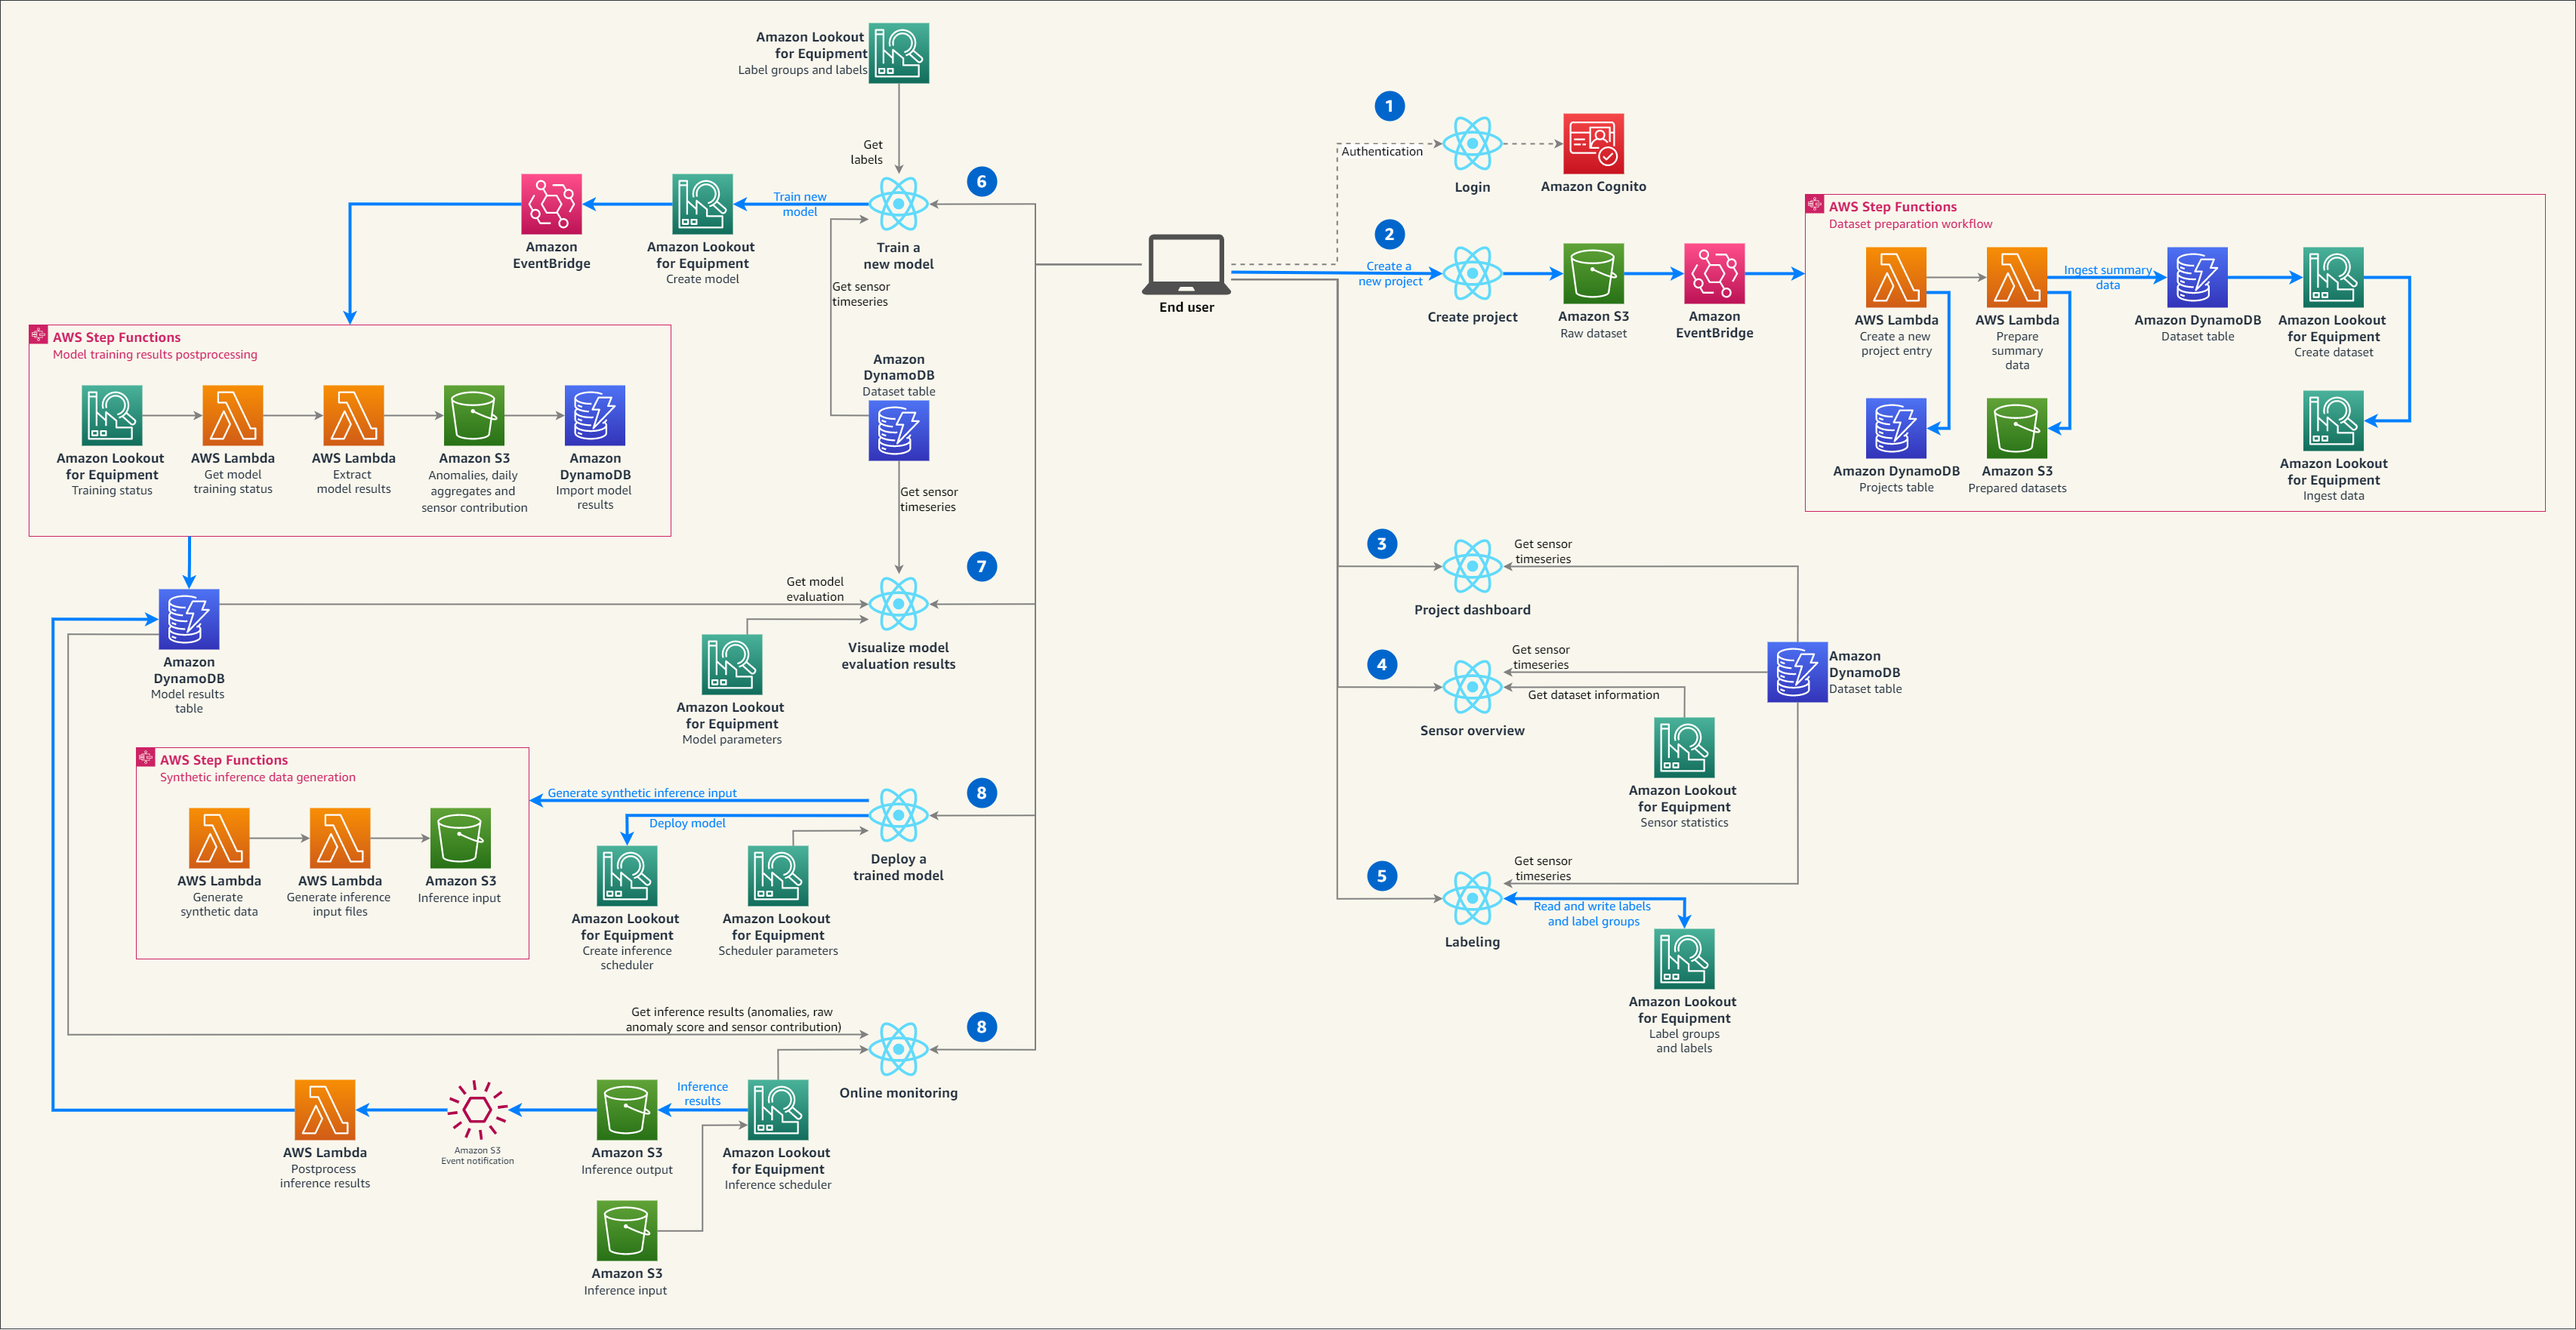
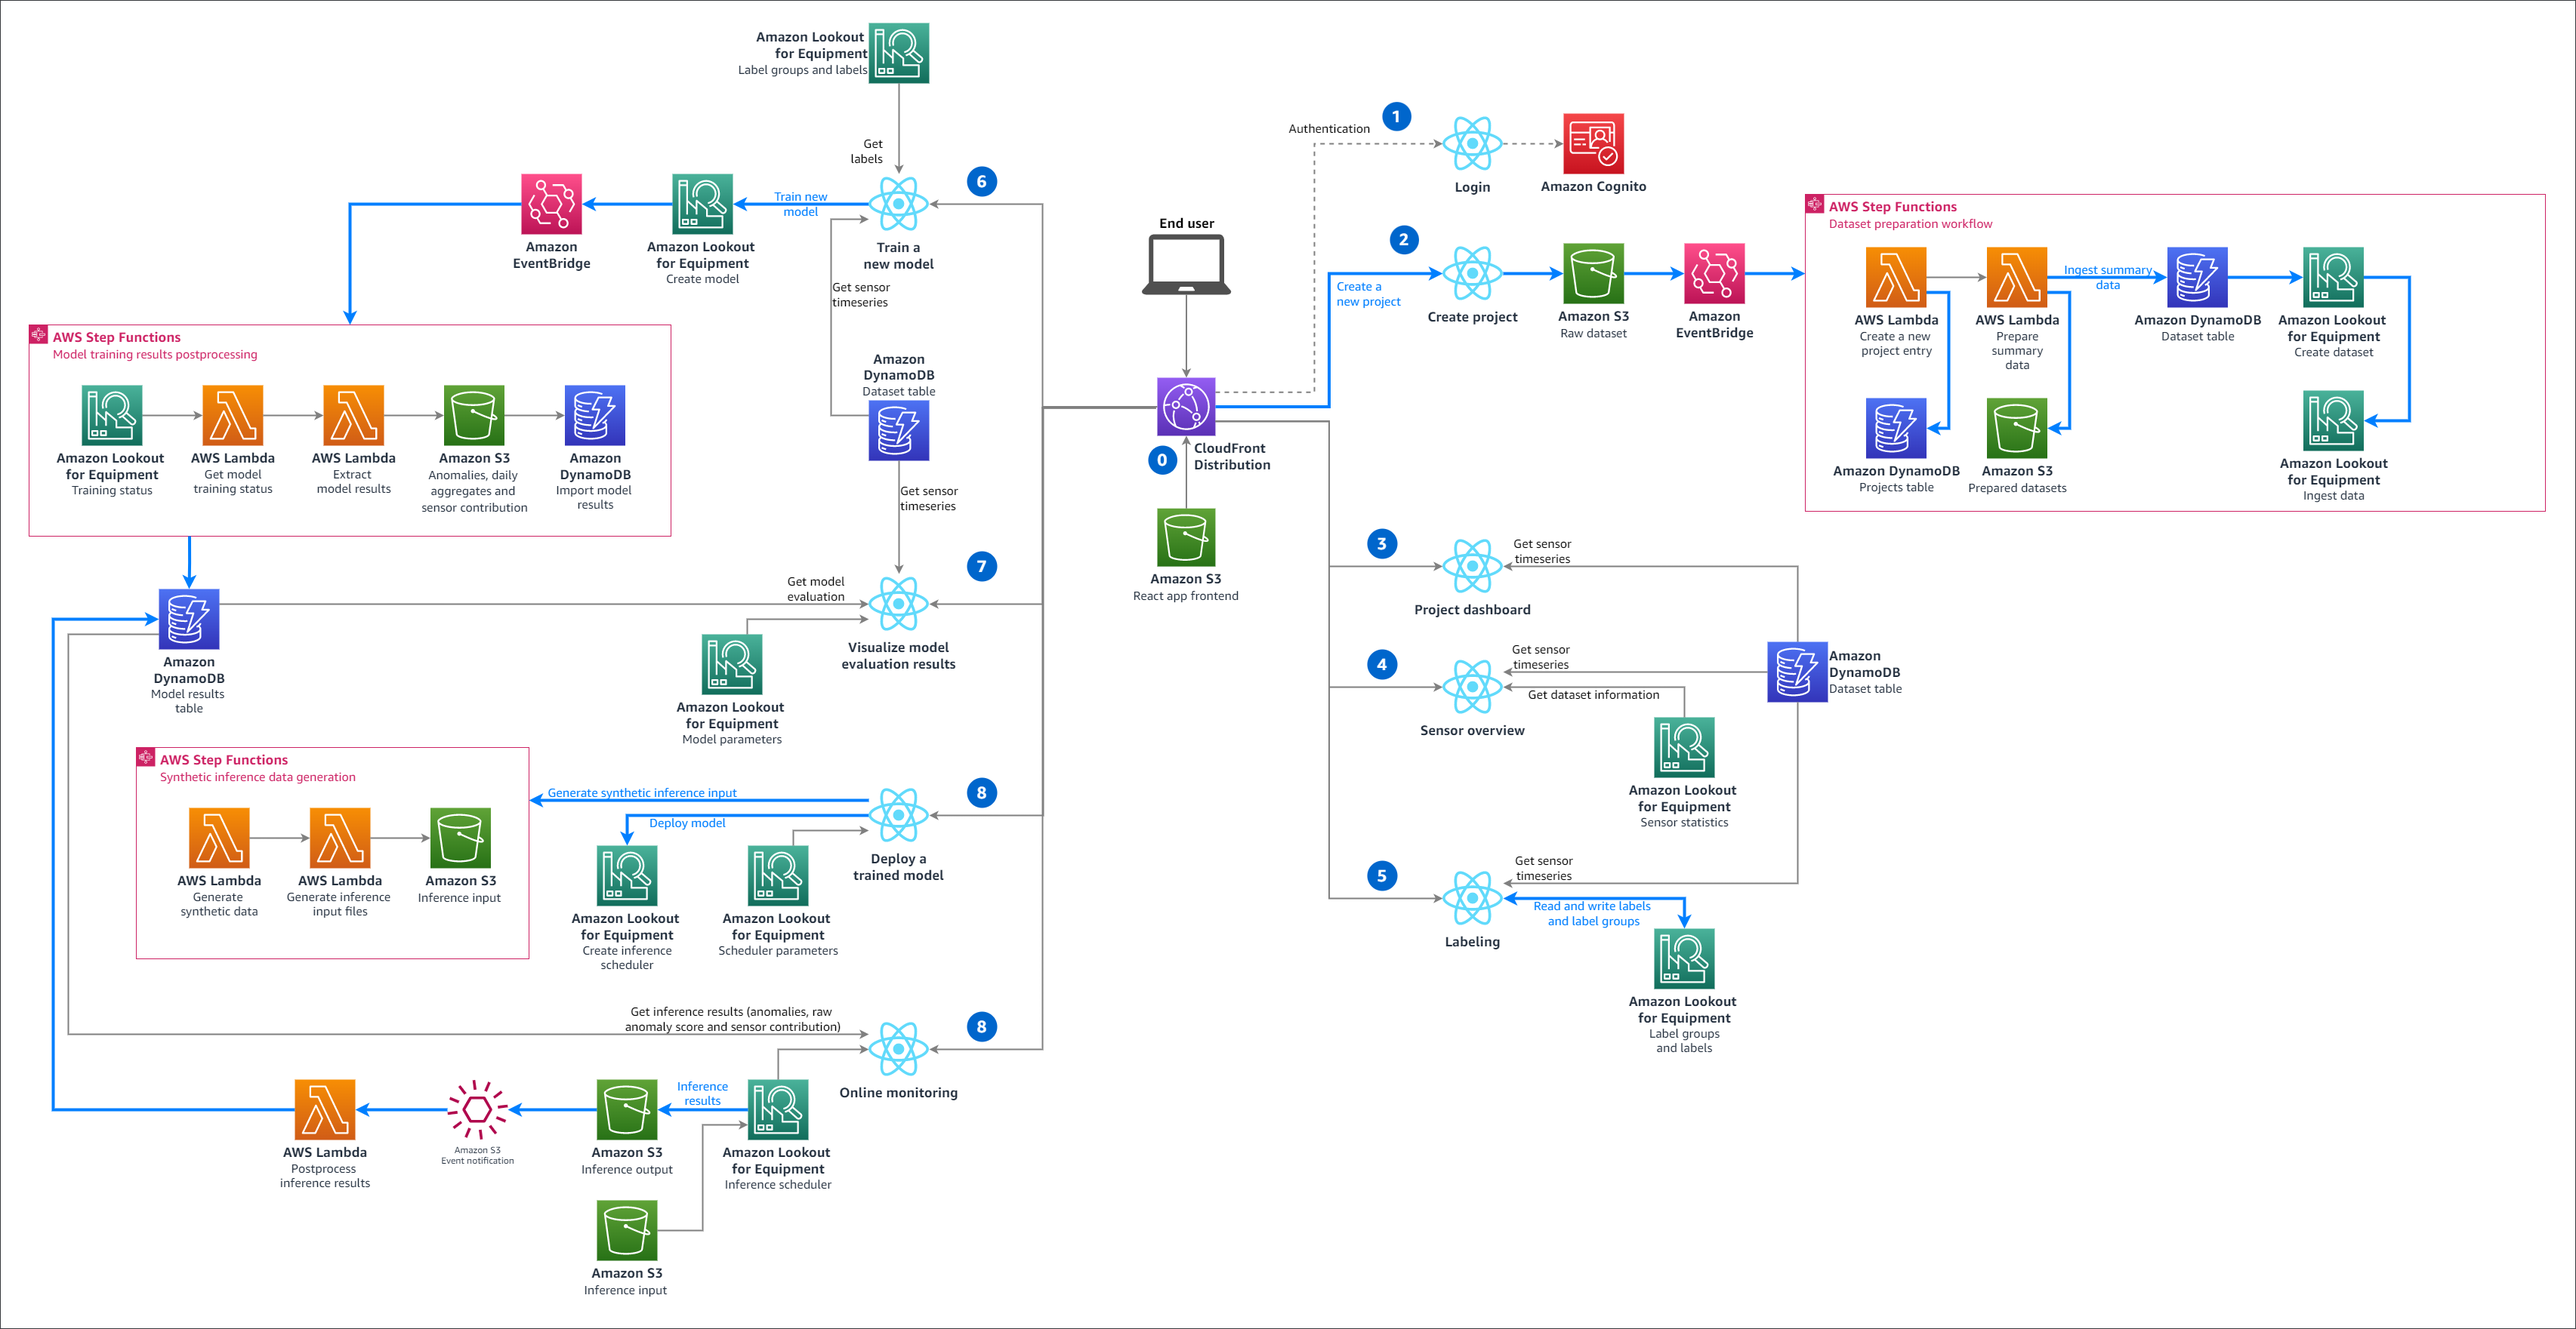
Architecture diagram update

diff --git a/README.md b/README.md
@@ -51,7 +51,8 @@ This template will deploy the following components in your AWS account:
 
 <img src="assets/architecture-diagram-without-legend.png" alt="Architecture diagram" />
 
-1. Deploy this AWS Solution into your AWS account. Open the App and use Amazon Cognito to authenticate.
+0. Deploy this AWS Solution into your AWS account. The React frontend is stored in S3 and distributed by CloudFront
+1. Open the App and use Amazon Cognito to authenticate.
 2. To create a new project, end user uploads a CSV file that will be used to create an Amazon Lookout for Equipment project. Data will also be prepared for visualization purpose in the app. The prepared data will be stored in a DynamoDB table.
 3. Once a project is created, user can visualize the project attributes and a summary of the ingested dataset
 4. User can also dive deeper in the sensor data, visualize sensor grade results, timeseries and value distributions
@@ -89,7 +90,7 @@ This folder is structured as followed:
 
 ## Questions
 
-Please contact the [**Lookout for Equipment team**](mailto:aws-custfeedback-l4edemoapp@amazon.fr?subject=Lookout%20for%20Equipment%20Demo%20App%20Feedback) or raise an issue on this repository.
+Please contact the [**Lookout for Equipment team**](mailto:aws-custfeedback-l4edemoapp@amazon.fr?subject=Lookout%20for%20Equipment%20Demo%20App%20Feedback) or raise an issue against this repository.
 
 ## Security
 
@@ -97,4 +98,4 @@ See [CONTRIBUTING](CONTRIBUTING.md#security-issue-notifications) for more inform
 
 ## License
 
-This library is licensed under the MIT-0 License. See the LICENSE file.
+This library is licensed under the MIT-0 License. See the [LICENSE](LICENSE) file.
